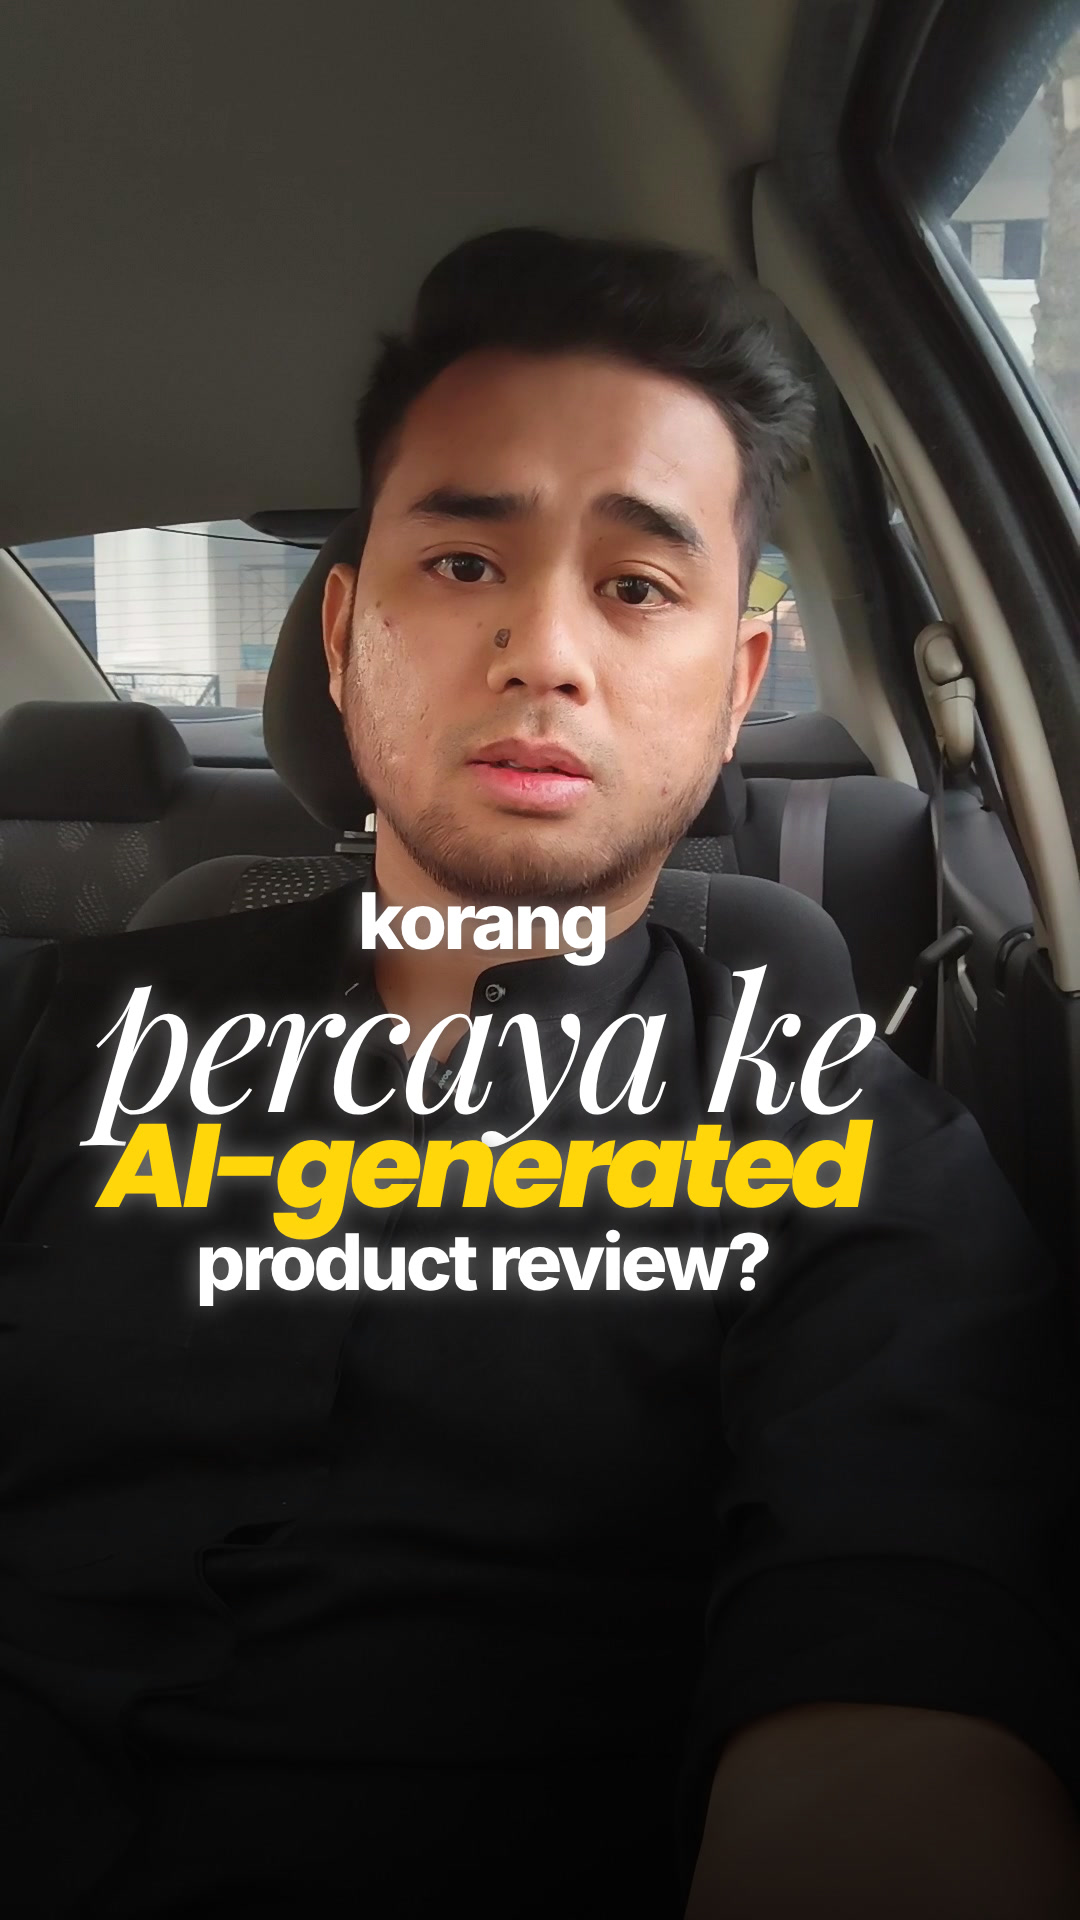
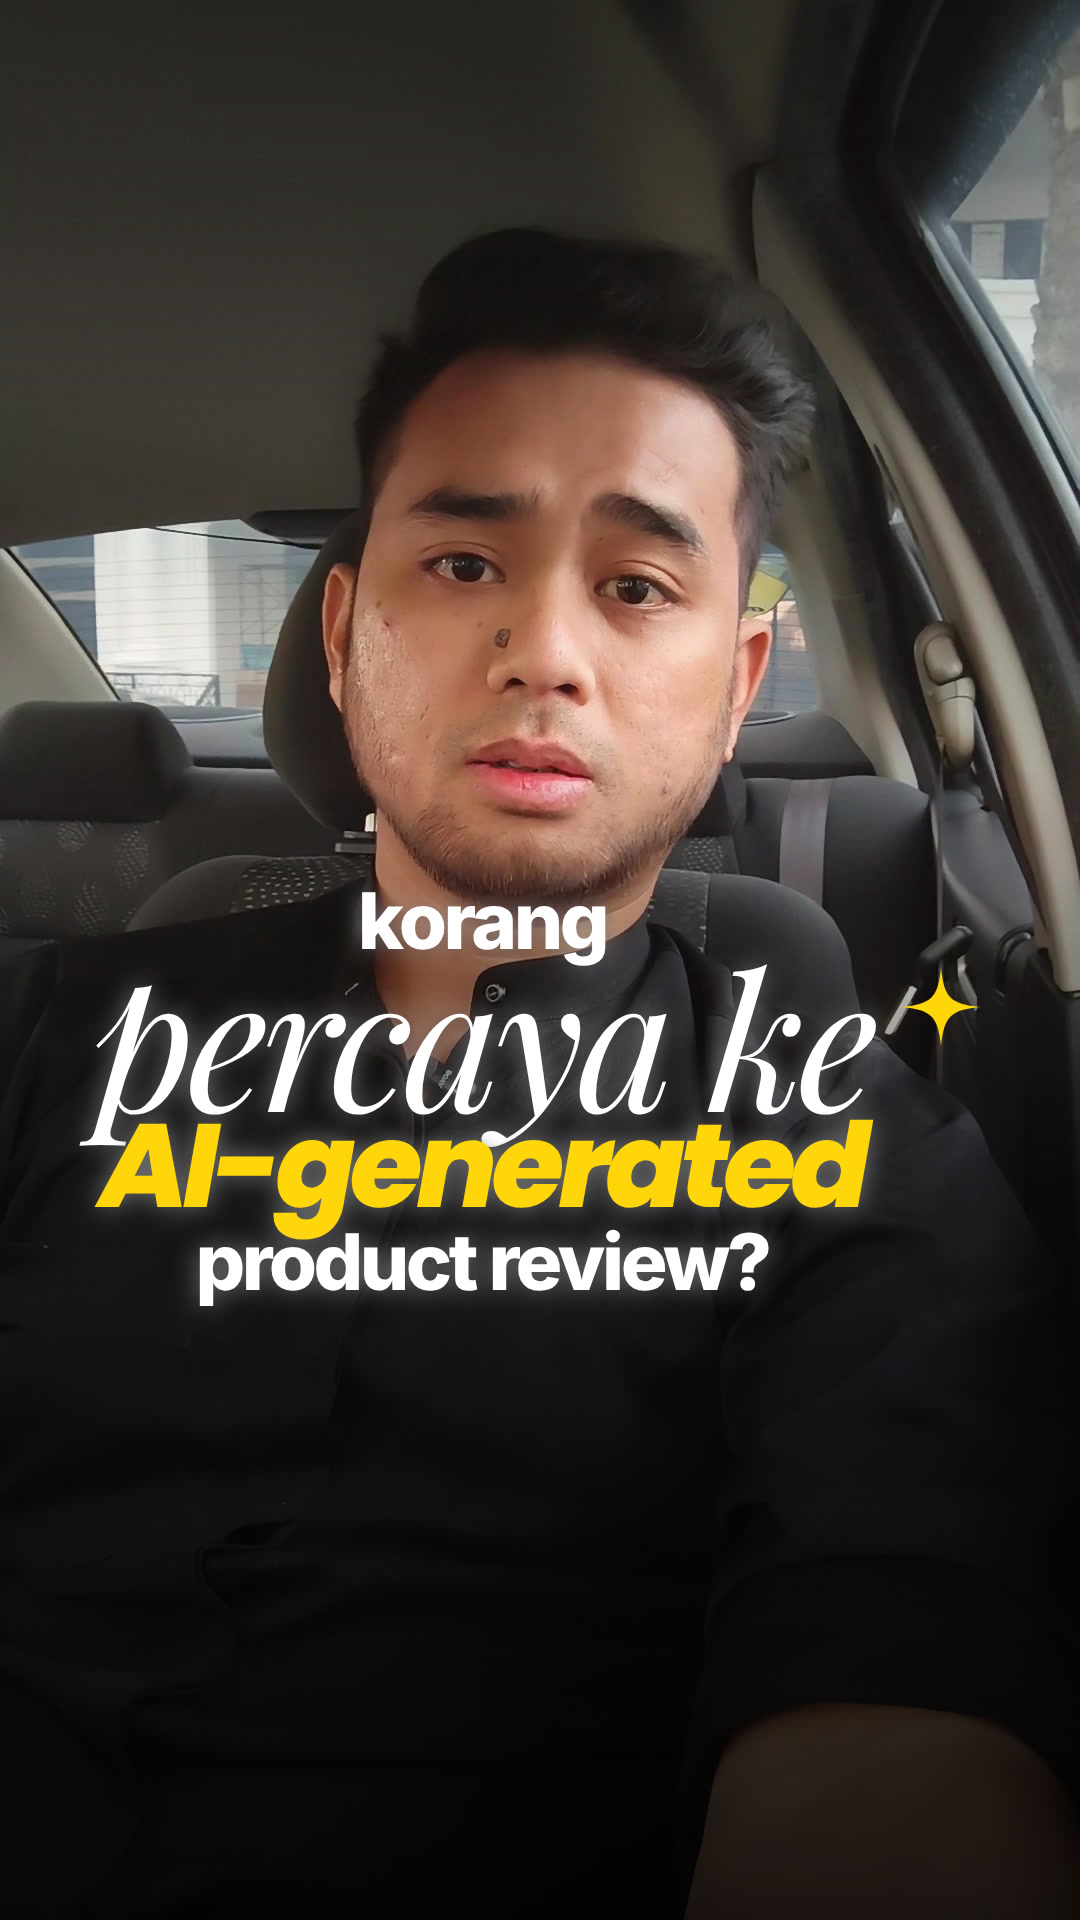
Revert cover to the minimal D1 style
Drop the thumbnail-style cover and its cut-out; D1 keeps the real frame with
a soft top vignette and one small yellow spark as the only accent.

Claude-Session: https://claude.ai/code/session_01VAcMgEwi4dFpChNvBqbLzH

Changed region(s): [[0.8556, 0.0, 1.0, 0.1562], [0.6722, 0.0, 0.7333, 0.0312], [0.8556, 0.5, 0.8861, 0.5312]]

diff --git a/video-edit/covers/compositions/cover-d1.html b/video-edit/covers/compositions/cover-d1.html
@@ -4,7 +4,9 @@
     <meta charset="UTF-8">
     <link rel="stylesheet" href="../assets/style-d.css">
     <style>
-.c-fade { position: absolute; inset: 0; background: linear-gradient(180deg, rgba(0,0,0,0) 40%, rgba(0,0,0,0.55) 62%, rgba(0,0,0,0.85) 100%); }
+.c-fade { position: absolute; inset: 0; background: linear-gradient(180deg, rgba(0,0,0,0.35) 0%, rgba(0,0,0,0) 22%, rgba(0,0,0,0) 40%, rgba(0,0,0,0.55) 62%, rgba(0,0,0,0.85) 100%); }
+.c-spark { position: absolute; width: 78px; height: 78px; }
+.c-spark path { fill: var(--accent); }
 .cover-kold { bottom: 620px; }
 .cover-kold .ks { font-size: 78px; }
 .cover-kold .kserif { font-size: 186px; line-height: 0.82; }
@@ -19,7 +21,7 @@
   <body>
     <!-- Style D cover D1: Talking head + Kold caption (hook H4) -->
     <div data-hf-id="hf-6zo9" id="root" data-composition-id="cover-d1" data-start="0" data-duration="1" data-width="1080" data-height="1920">
-      <section data-hf-id="hf-8goo" id="cd1" class="scene"><img data-color-grading="{&quot;preset&quot;:&quot;skin-soft&quot;,&quot;intensity&quot;:1,&quot;adjust&quot;:{&quot;exposure&quot;:0.04,&quot;contrast&quot;:-0.03,&quot;highlights&quot;:-0.12,&quot;shadows&quot;:0.12,&quot;whites&quot;:0,&quot;blacks&quot;:0,&quot;temperature&quot;:0.08,&quot;tint&quot;:0.02,&quot;vibrance&quot;:0,&quot;saturation&quot;:0.04},&quot;details&quot;:{&quot;vignette&quot;:0,&quot;vignetteMidpoint&quot;:0.5,&quot;vignetteRoundness&quot;:0,&quot;vignetteFeather&quot;:0.65,&quot;grain&quot;:0,&quot;grainSize&quot;:0.25,&quot;grainRoughness&quot;:0.5},&quot;effects&quot;:{&quot;blur&quot;:0,&quot;pixelate&quot;:0,&quot;chromaBleed&quot;:0,&quot;tapeDamage&quot;:0,&quot;tapeTracking&quot;:0,&quot;tapeNoise&quot;:1,&quot;tapeSpeed&quot;:0.5,&quot;filmArtifacts&quot;:0,&quot;halftone&quot;:0,&quot;halftoneSize&quot;:0,&quot;twoInkPrint&quot;:0,&quot;twoInkPrintSize&quot;:0,&quot;ascii&quot;:0,&quot;asciiSize&quot;:0.06578947368421052,&quot;asciiInvert&quot;:0,&quot;asciiStyle&quot;:0,&quot;asciiColor&quot;:1,&quot;asciiRotation&quot;:0,&quot;dither&quot;:0,&quot;ditherSize&quot;:0,&quot;bloom&quot;:0,&quot;bloomRadius&quot;:8,&quot;monoScreen&quot;:0,&quot;monoScreenSize&quot;:0,&quot;monoScreenAngle&quot;:0,&quot;monoScreenSpread&quot;:0,&quot;monoScreenShape&quot;:0,&quot;monoScreenInvert&quot;:0,&quot;scanlines&quot;:0,&quot;scanlineCount&quot;:0,&quot;scanlineSoftness&quot;:0,&quot;chromaticAberration&quot;:0,&quot;chromaticAngle&quot;:0,&quot;crtCurvature&quot;:0,&quot;digitalGlitch&quot;:0,&quot;digitalGlitchColorSplit&quot;:0,&quot;digitalGlitchLineTear&quot;:0,&quot;digitalGlitchPixelate&quot;:0,&quot;digitalGlitchBlockAmount&quot;:0,&quot;digitalGlitchBlockDisplacement&quot;:0,&quot;digitalGlitchBlockOpacity&quot;:0,&quot;digitalGlitchSpeed&quot;:0,&quot;engraving&quot;:0,&quot;engravingSpacing&quot;:0.4117647058823529,&quot;engravingMinThickness&quot;:0.2,&quot;engravingMaxThickness&quot;:0.4571428571428572,&quot;engravingAngle&quot;:0.25,&quot;engravingContrast&quot;:0.4666666666666667,&quot;engravingSharpness&quot;:0.59,&quot;engravingWave&quot;:0.2,&quot;engravingWaveFrequency&quot;:0.2222222222222222,&quot;crosshatch&quot;:0,&quot;crosshatchSpacing&quot;:0.28,&quot;crosshatchThickness&quot;:0.25,&quot;crosshatchAngle&quot;:0.25,&quot;crosshatchContrast&quot;:0.3333333333333333,&quot;crosshatchEdges&quot;:0.5,&quot;crosshatchLineWeight&quot;:0,&quot;crosshatchWave&quot;:0.33,&quot;crosshatchWaveFrequency&quot;:0.2222222222222222,&quot;kuwahara&quot;:0,&quot;kuwaharaRadius&quot;:0.14285714285714285,&quot;kuwaharaSharpness&quot;:0.3125,&quot;kuwaharaSaturation&quot;:0.5},&quot;lut&quot;:null,&quot;colorSpace&quot;:&quot;rec709&quot;}" data-hf-id="hf-h52n" class="plate" src="../assets/frames/A_8_2.jpg" alt=""><div data-hf-id="hf-hasu" class="c-fade"></div><div data-hf-id="hf-gic9" class="ov kold cover-kold"><div data-hf-id="hf-a4xi" class="ks">korang</div><div data-hf-id="hf-dhmc" class="kserif i">percaya ke</div><div data-hf-id="hf-6b8a" class="kit">AI-generated</div><div data-hf-id="hf-pwt0" class="ks">product review?</div></div></section>
+      <section data-hf-id="hf-8goo" id="cd1" class="scene"><img data-color-grading="{&quot;preset&quot;:&quot;skin-soft&quot;,&quot;intensity&quot;:1,&quot;adjust&quot;:{&quot;exposure&quot;:0.04,&quot;contrast&quot;:-0.03,&quot;highlights&quot;:-0.12,&quot;shadows&quot;:0.12,&quot;whites&quot;:0,&quot;blacks&quot;:0,&quot;temperature&quot;:0.08,&quot;tint&quot;:0.02,&quot;vibrance&quot;:0,&quot;saturation&quot;:0.04},&quot;details&quot;:{&quot;vignette&quot;:0,&quot;vignetteMidpoint&quot;:0.5,&quot;vignetteRoundness&quot;:0,&quot;vignetteFeather&quot;:0.65,&quot;grain&quot;:0,&quot;grainSize&quot;:0.25,&quot;grainRoughness&quot;:0.5},&quot;effects&quot;:{&quot;blur&quot;:0,&quot;pixelate&quot;:0,&quot;chromaBleed&quot;:0,&quot;tapeDamage&quot;:0,&quot;tapeTracking&quot;:0,&quot;tapeNoise&quot;:1,&quot;tapeSpeed&quot;:0.5,&quot;filmArtifacts&quot;:0,&quot;halftone&quot;:0,&quot;halftoneSize&quot;:0,&quot;twoInkPrint&quot;:0,&quot;twoInkPrintSize&quot;:0,&quot;ascii&quot;:0,&quot;asciiSize&quot;:0.06578947368421052,&quot;asciiInvert&quot;:0,&quot;asciiStyle&quot;:0,&quot;asciiColor&quot;:1,&quot;asciiRotation&quot;:0,&quot;dither&quot;:0,&quot;ditherSize&quot;:0,&quot;bloom&quot;:0,&quot;bloomRadius&quot;:8,&quot;monoScreen&quot;:0,&quot;monoScreenSize&quot;:0,&quot;monoScreenAngle&quot;:0,&quot;monoScreenSpread&quot;:0,&quot;monoScreenShape&quot;:0,&quot;monoScreenInvert&quot;:0,&quot;scanlines&quot;:0,&quot;scanlineCount&quot;:0,&quot;scanlineSoftness&quot;:0,&quot;chromaticAberration&quot;:0,&quot;chromaticAngle&quot;:0,&quot;crtCurvature&quot;:0,&quot;digitalGlitch&quot;:0,&quot;digitalGlitchColorSplit&quot;:0,&quot;digitalGlitchLineTear&quot;:0,&quot;digitalGlitchPixelate&quot;:0,&quot;digitalGlitchBlockAmount&quot;:0,&quot;digitalGlitchBlockDisplacement&quot;:0,&quot;digitalGlitchBlockOpacity&quot;:0,&quot;digitalGlitchSpeed&quot;:0,&quot;engraving&quot;:0,&quot;engravingSpacing&quot;:0.4117647058823529,&quot;engravingMinThickness&quot;:0.2,&quot;engravingMaxThickness&quot;:0.4571428571428572,&quot;engravingAngle&quot;:0.25,&quot;engravingContrast&quot;:0.4666666666666667,&quot;engravingSharpness&quot;:0.59,&quot;engravingWave&quot;:0.2,&quot;engravingWaveFrequency&quot;:0.2222222222222222,&quot;crosshatch&quot;:0,&quot;crosshatchSpacing&quot;:0.28,&quot;crosshatchThickness&quot;:0.25,&quot;crosshatchAngle&quot;:0.25,&quot;crosshatchContrast&quot;:0.3333333333333333,&quot;crosshatchEdges&quot;:0.5,&quot;crosshatchLineWeight&quot;:0,&quot;crosshatchWave&quot;:0.33,&quot;crosshatchWaveFrequency&quot;:0.2222222222222222,&quot;kuwahara&quot;:0,&quot;kuwaharaRadius&quot;:0.14285714285714285,&quot;kuwaharaSharpness&quot;:0.3125,&quot;kuwaharaSaturation&quot;:0.5},&quot;lut&quot;:null,&quot;colorSpace&quot;:&quot;rec709&quot;}" data-hf-id="hf-h52n" class="plate" src="../assets/frames/A_8_2.jpg" alt=""><div data-hf-id="hf-hasu" class="c-fade"></div><div data-hf-id="hf-gic9" class="ov kold cover-kold"><div data-hf-id="hf-a4xi" class="ks">korang</div><div data-hf-id="hf-dhmc" class="kserif i">percaya ke</div><div data-hf-id="hf-6b8a" class="kit">AI-generated</div><div data-hf-id="hf-pwt0" class="ks">product review?</div></div><svg data-hf-id="hf-zjdq" class="c-spark" viewBox="0 0 100 100" style="left:902px;top:968px"><path data-hf-id="hf-o10g" d="M50 0 C54 38 62 46 100 50 C62 54 54 62 50 100 C46 62 38 54 0 50 C38 46 46 38 50 0Z" /></svg></section>
     </div>
     <script>
       window.__timelines = window.__timelines || {};

diff --git a/video-edit/covers/index.html b/video-edit/covers/index.html
@@ -8,7 +8,7 @@
   </head>
   <body>
     <!-- Cover options: one still per second. Snapshot with --at 0.5,1.5,2.5,3.5 -->
-    <div id="root" data-composition-id="main" data-start="0" data-duration="8" data-width="1080" data-height="1920">
+    <div id="root" data-composition-id="main" data-start="0" data-duration="7" data-width="1080" data-height="1920">
       <!-- Cover 1: Soalan besar -->
       <div id="cover-1" class="clip" data-composition-id="cover-1" data-composition-src="compositions/cover-1.html" data-start="0" data-duration="1" data-track-index="0"></div>
       <!-- Cover 2: Statistik -->
@@ -23,8 +23,6 @@
       <div id="cover-d2" class="clip" data-composition-id="cover-d2" data-composition-src="compositions/cover-d2.html" data-start="5" data-duration="1" data-track-index="0"></div>
       <!-- Style D cover D3 -->
       <div id="cover-d3" class="clip" data-composition-id="cover-d3" data-composition-src="compositions/cover-d3.html" data-start="6" data-duration="1" data-track-index="0"></div>
-      <!-- Thumbnail cover T1 -->
-      <div id="cover-t1" class="clip" data-composition-id="cover-t1" data-composition-src="compositions/cover-t1.html" data-start="7" data-duration="1" data-track-index="0"></div>
     </div>
     <script>
       const tl = gsap.timeline({ paused: true });

diff --git a/video-edit/covers/compositions/cover-d2.html b/video-edit/covers/compositions/cover-d2.html
@@ -4,7 +4,9 @@
     <meta charset="UTF-8">
     <link rel="stylesheet" href="../assets/style-d.css">
     <style>
-.c-fade { position: absolute; inset: 0; background: linear-gradient(180deg, rgba(0,0,0,0) 40%, rgba(0,0,0,0.55) 62%, rgba(0,0,0,0.85) 100%); }
+.c-fade { position: absolute; inset: 0; background: linear-gradient(180deg, rgba(0,0,0,0.35) 0%, rgba(0,0,0,0) 22%, rgba(0,0,0,0) 40%, rgba(0,0,0,0.55) 62%, rgba(0,0,0,0.85) 100%); }
+.c-spark { position: absolute; width: 78px; height: 78px; }
+.c-spark path { fill: var(--accent); }
 .cover-kold { bottom: 620px; }
 .cover-kold .ks { font-size: 78px; }
 .cover-kold .kserif { font-size: 186px; line-height: 0.82; }

diff --git a/video-edit/covers/compositions/cover-d3.html b/video-edit/covers/compositions/cover-d3.html
@@ -4,7 +4,9 @@
     <meta charset="UTF-8">
     <link rel="stylesheet" href="../assets/style-d.css">
     <style>
-.c-fade { position: absolute; inset: 0; background: linear-gradient(180deg, rgba(0,0,0,0) 40%, rgba(0,0,0,0.55) 62%, rgba(0,0,0,0.85) 100%); }
+.c-fade { position: absolute; inset: 0; background: linear-gradient(180deg, rgba(0,0,0,0.35) 0%, rgba(0,0,0,0) 22%, rgba(0,0,0,0) 40%, rgba(0,0,0,0.55) 62%, rgba(0,0,0,0.85) 100%); }
+.c-spark { position: absolute; width: 78px; height: 78px; }
+.c-spark path { fill: var(--accent); }
 .cover-kold { bottom: 620px; }
 .cover-kold .ks { font-size: 78px; }
 .cover-kold .kserif { font-size: 186px; line-height: 0.82; }

diff --git a/video-edit/covers/build_d.py b/video-edit/covers/build_d.py
@@ -10,7 +10,9 @@ STAR = ('<svg class="star" viewBox="0 0 100 100" style="{pos}"><path '
         'd="M50 0 C54 38 62 46 100 50 C62 54 54 62 50 100 C46 62 38 54 0 50 C38 46 46 38 50 0Z"/></svg>')
 
 LOCAL = """
-.c-fade { position: absolute; inset: 0; background: linear-gradient(180deg, rgba(0,0,0,0) 40%, rgba(0,0,0,0.55) 62%, rgba(0,0,0,0.85) 100%); }
+.c-fade { position: absolute; inset: 0; background: linear-gradient(180deg, rgba(0,0,0,0.35) 0%, rgba(0,0,0,0) 22%, rgba(0,0,0,0) 40%, rgba(0,0,0,0.55) 62%, rgba(0,0,0,0.85) 100%); }
+.c-spark { position: absolute; width: 78px; height: 78px; }
+.c-spark path { fill: var(--accent); }
 .cover-kold { bottom: 620px; }
 .cover-kold .ks { font-size: 78px; }
 .cover-kold .kserif { font-size: 186px; line-height: 0.82; }
@@ -26,7 +28,8 @@ COVERS = {
     "d1": ("Talking head + Kold caption",
            f'<img class="plate" src="{FRAME}" alt="" /><div class="c-fade"></div>'
            '<div class="ov kold cover-kold"><div class="ks">korang</div><div class="kserif i">percaya ke</div>'
-           '<div class="kit">AI-generated</div><div class="ks">product review?</div></div>'),
+           '<div class="kit">AI-generated</div><div class="ks">product review?</div></div>'
+           + STAR.replace('class="star"', 'class="c-spark"').format(pos="left:902px;top:968px")),
     "d2": ("Face on top, black b-roll panel",
            '<img class="plate half" src="../assets/frames/A_8_2_top.jpg" alt="" /><div class="panel"></div>'
            + STAR.format(pos="right:-170px;top:1000px;width:420px;height:420px")
